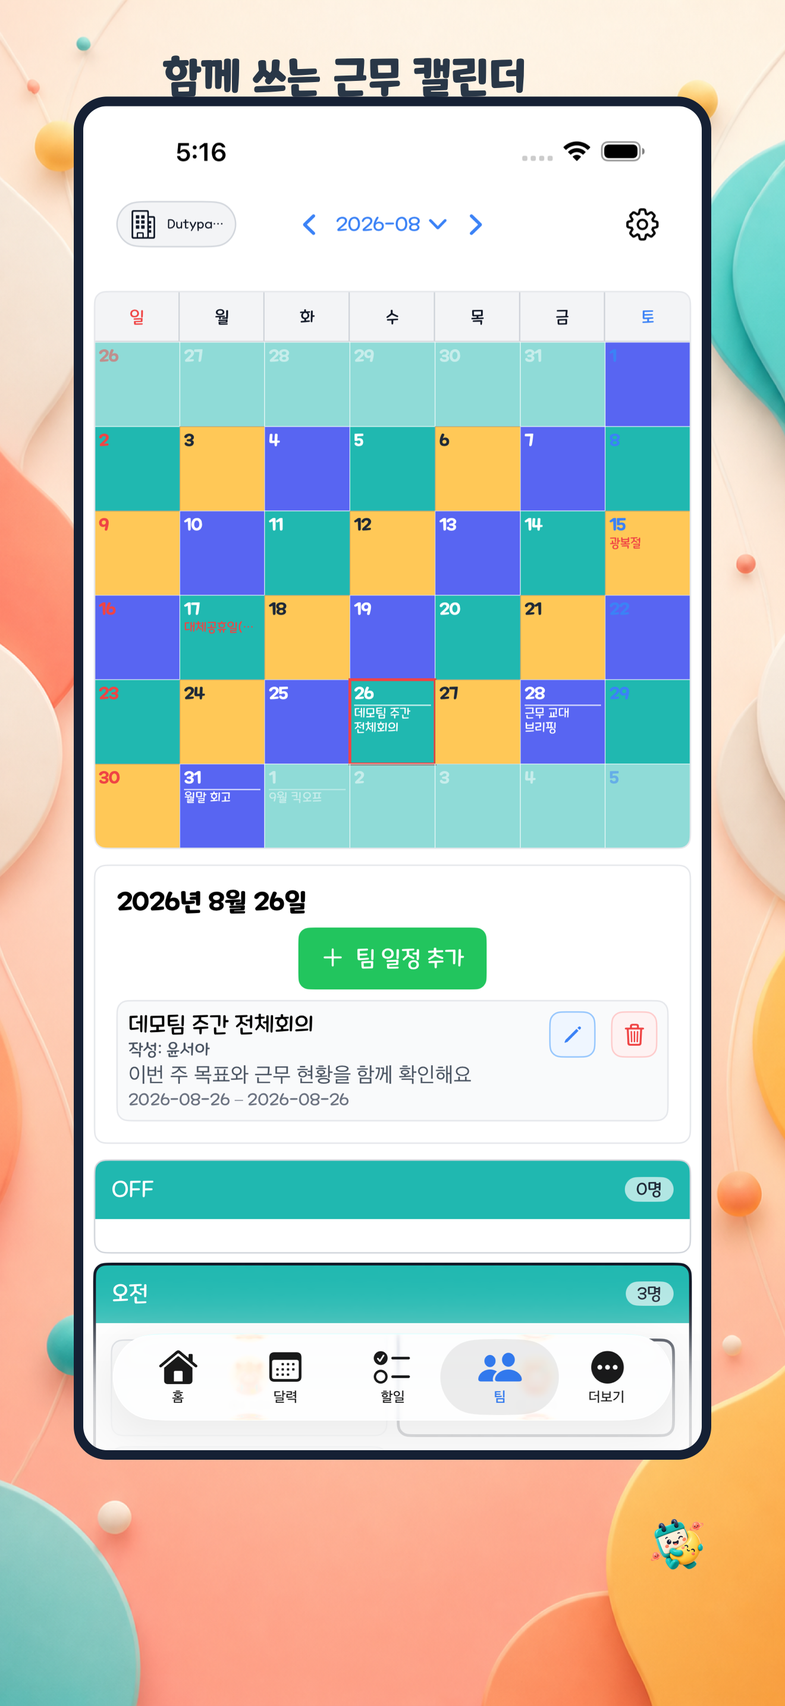
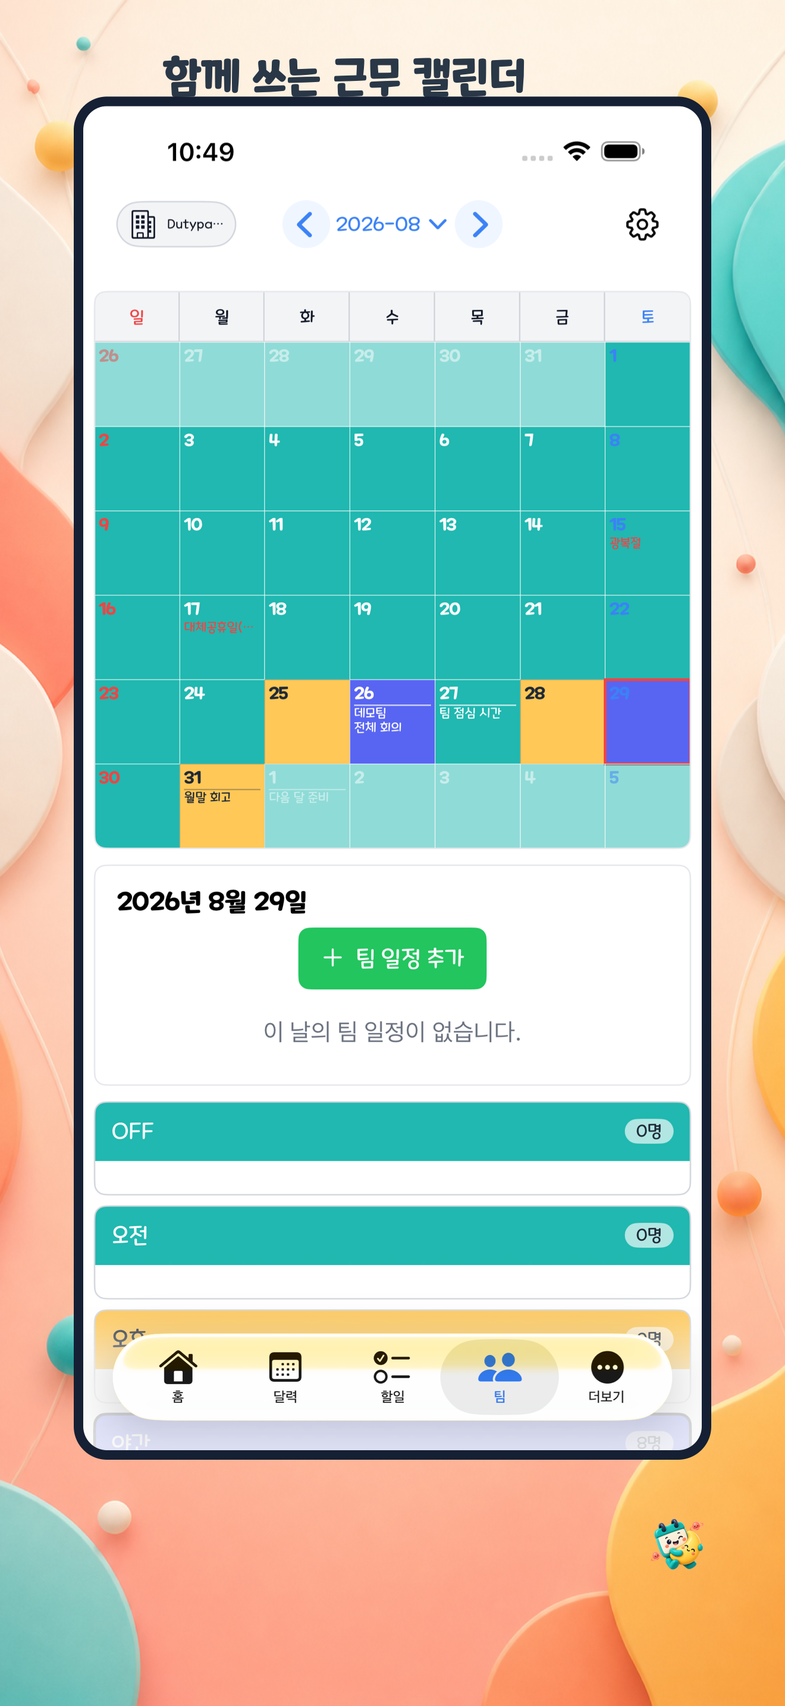
fix: refresh App Store screenshot set
Capture deterministic Korean and English demo flows on the current UI, keep English calendar surfaces holiday-free, and record reproducible review evidence.

diff --git a/ios/DutyparkUITests/DemoAppStoreCaptureUITests.swift b/ios/DutyparkUITests/DemoAppStoreCaptureUITests.swift
@@ -67,6 +67,9 @@ final class DemoAppStoreCaptureUITests: XCTestCase {
 
         openPrimaryTab("tab.team", screen: "screen.team", in: app)
         waitForSettledContent(in: app, loadingIdentifier: nil)
+        if language == "en" {
+            selectEnglishTeamCaptureMonth(in: app)
+        }
         capture("appstore-\(language)-04-team-demo")
 
         openPrimaryTab("tab.more", screen: "screen.more", in: app)
@@ -200,6 +203,37 @@ final class DemoAppStoreCaptureUITests: XCTestCase {
             "English capture must show November 2026 after moving three months"
         )
         XCTAssertEqual(monthDisplay.value as? String, "2026-11")
+    }
+
+    @MainActor
+    private func selectEnglishTeamCaptureMonth(in app: XCUIApplication) {
+        let monthDisplay = app.buttons["team.calendar.month.display"]
+        XCTAssertTrue(monthDisplay.waitForExistence(timeout: 10), "Team month control did not load")
+        XCTAssertEqual(
+            monthDisplay.value as? String,
+            "2026-08",
+            "The English team capture starts in August 2026 before its move to November"
+        )
+
+        monthDisplay.tap()
+        let monthPicker = app.descendants(matching: .any)["team.calendar.monthPicker"]
+        XCTAssertTrue(monthPicker.waitForExistence(timeout: 5), "Team month picker did not load")
+
+        let november = app.buttons["team.calendar.monthPicker.month.11"]
+        XCTAssertTrue(november.waitForExistence(timeout: 5), "Team November month button did not load")
+        november.tap()
+        XCTAssertTrue(monthPicker.waitForNonExistence(timeout: 5), "Team month picker did not dismiss")
+
+        let monthChanged = XCTNSPredicateExpectation(
+            predicate: NSPredicate(format: "value == %@", "2026-11"),
+            object: monthDisplay
+        )
+        XCTAssertEqual(
+            XCTWaiter.wait(for: [monthChanged], timeout: 10),
+            .completed,
+            "English team capture must show November 2026"
+        )
+        waitForSettledContent(in: app, loadingIdentifier: nil)
     }
 
     @MainActor

diff --git a/ios/Dutypark/Features/Team/TeamView.swift b/ios/Dutypark/Features/Team/TeamView.swift
@@ -92,6 +92,7 @@ struct TeamView: View {
                 nextYearLabel: Text("team.view.calendar.nextYear", tableName: "Team"),
                 currentMonthTitle: Text("team.view.calendar.thisMonth", tableName: "Team"),
                 cancelTitle: teamLocalized("team.common.cancel"),
+                identifierPrefix: "team.calendar.monthPicker",
                 onSelect: { year, month in
                     monthPickerPresented = false
                     Task { await viewModel.goTo(year: year, month: month) }
@@ -281,6 +282,10 @@ struct TeamView: View {
                 .frame(minHeight: DPSize.minimumTouchTarget)
             }
             .accessibilityLabel(Text("team.view.calendar.chooseMonth", tableName: "Team"))
+            .accessibilityValue(
+                Text(verbatim: "\(viewModel.year)-\(String(format: "%02d", viewModel.month))")
+            )
+            .accessibilityIdentifier("team.calendar.month.display")
             .disabled(viewModel.isLoading)
 
             DPMonthArrowButton(direction: .next, label: teamLocalized("team.view.calendar.nextMonth"), identifier: "team.calendar.month.next") {

diff --git a/ios/APP_STORE_REVIEW_AUDIT_2026-08-29.md b/ios/APP_STORE_REVIEW_AUDIT_2026-08-29.md
@@ -2,7 +2,7 @@
 
 - 기준일: 2026-08-29 (KST)
 - 판정: **HOLD — 제출하지 않음**
-- 코드 기준: committed HEAD `3d55d46d` 위의 현재 미커밋 작업 트리. 탈퇴 시 문의·신고 보존 예외 고지와 정책 링크를 포함한 이 작업 트리를 2026-08-29 21:02 KST까지 재검증했다. 최종 제출 전에는 커밋 SHA가 고정된 동일 소스를 다시 검증해야 한다.
+- 코드 기준: committed HEAD `1856c2aa` 위의 현재 미커밋 스크린샷 작업 트리. 계정 삭제 보존 예외 고지는 이 HEAD에 포함됐고, 팀 월 선택 접근성 계약·캡처 harness·로컬 전용 demo seed·ko/en 이미지와 문서는 2026-08-29 22:57 KST까지 재검증했다. 최종 제출 전에는 커밋 SHA가 고정된 동일 소스를 다시 검증해야 한다.
 - 목적: [2026-08-28 보고서](./APP_STORE_REVIEW_AUDIT_2026-08-28.md)의 반복이 아닌, 그 이후 변경분과 제출 직전의 미검증 게이트를 기록한다.
 - 비밀값: 비밀번호, private key, client secret, webhook token, 실제 S2S URL은 이 문서에 기록하지 않는다. 심사용 계정은 App Store Connect의 `App Review Information → Sign-in required → Username / Password` 필드에서만 제공한다.
 
@@ -16,7 +16,7 @@
 | UGC 텍스트 필터 | 클라이언트·일부 서버 보강 반영됨 | backend/iOS 관련 focused·full 검증 PASS. 웹 정규화·private D-Day 예외는 반영됐고 cold-start/fetch fail-open, 모든 공개/공유 쓰기 경로·첨부·신고 흐름은 별도 게이트 |
 | 문의·신고 탈퇴 후 보존 | 사업자 결정 HOLD | exact retention/purge 기간, snapshot·식별자 최소화, legal hold 범위·종료 조건 및 사용자 고지·Privacy declarations 일치 확정 |
 | 비동기 계정 삭제 완료 확인 | backend·web·iOS 구현 및 자동 테스트 PASS | 보통 5분 이내 ETA, 로그아웃 후 receipt 기반 상태 조회, 실제 `COMPLETED` confirmation, `FAILED` 지원 경로를 구현. disposable 운영 유사 계정 E2E는 별도 게이트 |
-| App Store 스크린샷 | 현 앱과 불일치 가능 | 최종 빌드에서 한국어·영어 세트 재촬영·재합성 |
+| App Store 스크린샷 | 최신 ko/en 세트 재촬영·재합성·시각 검토 PASS | 제출할 build와 이미지 source가 같음을 최종 업로드 전에 한 번 더 확인 |
 | 배포 IPA | 배포 서명·최종 entitlement 미확정 | Release Archive/export, 서명, 운영 API, APNs production 확인 |
 | 실제 iPhone E2E | 미실행 또는 일부 미검증 | APNs, OAuth, 카메라, 파일 picker, 파괴적 흐름 완료 |
 | App Store Connect | 제출 전 입력 대기 | privacy labels, Review Notes, demo account, backend 준비 |
@@ -42,14 +42,14 @@ Apple routine review의 경계도 구분한다. Apple이 내부 DB를 직접 조
 | backend full Gradle | 1,845 total; 1,824 PASS / 21 SKIP / 0 FAIL | skip 사유는 개별 Gradle 결과에서 확인 |
 | Slack privacy focused | 54 PASS | 일정 파싱 33 + 문의·신고·generic argument dump·예외 payload 21 최소화 검증 |
 | web full | 97 files / 727 tests PASS | type-check PASS, build PASS(2,218 modules transformed) |
-| App Store screenshot compose/extract scripts | PASS | 파일·크기·alpha·manifest 검증은 PASS. 실제 최신 앱 재촬영은 아래 UI 불일치로 미완료 |
+| App Store screenshot capture/compose/extract | PASS | iPhone 17 Pro Max, iOS 26.5에서 실제 local demo 계정 ko/en 2/2 PASS. 14개 raw와 12개 final을 1320x2868 opaque PNG로 갱신하고 전수 시각 검토 완료 |
 | Evidence manifest | 작성됨 | [2026-08-29 evidence manifest](./review-evidence/2026-08-29/README.md)에 fresh backend/web/iOS unit 재실행의 명령·tested SHA·결과와 기존 UI xcresult/capture provenance를 기록. 전체 bundle/log의 장기 artifact 저장은 HOLD |
 
 ## 3. 이번 점검의 범위와 근거
 
 ### 점검 범위
 
-- 시뮬레이터 기준: `iPhone 13 mini`, iOS 26.5 — committed HEAD `3d55d46d` 위 현재 미커밋 작업 트리의 8/29 자동 검증 결과는 2절에 기록하고, 외부·실기기·배포 검증은 별도로 남긴다.
+- 시뮬레이터 기준: unit/build는 `iPhone 13 mini`, App Store 캡처는 `iPhone 17 Pro Max`, 모두 iOS 26.5 — committed HEAD `1856c2aa` 위 현재 미커밋 작업 트리의 8/29 자동 검증 결과는 2절에 기록하고, 외부·실기기·배포 검증은 별도로 남긴다.
 - iOS 코드: `ios/Dutypark/` 및 `ios/DutyparkTests/`
 - 백엔드 개인정보·인증·UGC 코드: `src/main/kotlin/`, `src/main/resources/db/migration/v2/`, `src/test/kotlin/`
 - App Store 산출물: `docs/app-store/raw/{ko,en}/`, `docs/app-store/final/{ko,en}/`, `docs/app-store/manifests/{ko,en}.json`
@@ -157,19 +157,20 @@ exact retention/purge 일정, 문의·신고 snapshot과 식별자의 최소화,
 
 Dutypark의 내부 게이트는 이 최소 요건보다 보수적이다. 위 흐름의 backend·web·iOS 자동 테스트는 PASS했지만, disposable 계정으로 비동기 완료까지 확인한 뒤 세션·token·OAuth 연결·UGC·첨부 및 보존 예외가 정책과 일치하는지는 아직 실제 서버에서 검증하지 않았다. 상태 API에 앱 자체 rate limiter는 없으므로, 256-bit status-only token 외에도 운영 edge/IP rate limit이 적용되는지 배포 환경에서 확인한다. 이 내부 E2E와 사업자 보존 결정이 끝나지 않았으므로 제출 판정은 계속 HOLD다.
 
-## 6. 현 앱과 달라진 App Store 스크린샷
+## 6. 최신 App Store 스크린샷 재촬영 결과
 
-기존 산출물은 `docs/app-store/README.md`의 2026-08-26 capture provenance를 사용한다. 코드 HEAD `c813778d`에 포함된 캘린더 화살표 수정으로 실제 UI가 바뀌었다. 기존 8/26 raw 캡처는 맨 chevron을 사용하지만 현재 앱은 원형 배경과 넓어진 탭 영역을 사용하므로, 기존 캡처를 최신 앱 화면으로 사용할 수 없다. Slack 개인정보와 UGC 필터 변경이 스크린샷에 보인다고 추정하지 않으며, 화면 불일치가 확인된 캘린더를 포함해 **전체 제출 세트를 재촬영**한다.
+2026-08-26 산출물은 캘린더 화살표 UI가 현재 앱과 달라 폐기하고, 2026-08-29에 격리된 `dutypark_demo` DB·loopback 8081 API와 실제 local demo 계정을 사용해 전체 세트를 다시 촬영했다. `DemoAppStoreCaptureUITests`는 iPhone 17 Pro Max, iOS 26.5에서 ko/en 2/2 PASS했고 결과 번들은 `/private/tmp/dutypark-appstore-capture-final3-20260829.xcresult`다. 명령·device·tested source·tree hash는 [evidence manifest](./review-evidence/2026-08-29/README.md)에 기록한다.
 
-필수 작업:
+완료한 작업:
 
-- `ios/DutyparkUITests/DemoAppStoreCaptureUITests.swift`로 한국어·영어 실제 계정 화면을 최종 Release 빌드에서 재촬영한다.
-- `docs/app-store/raw/ko/{home,calendar,todo,team,more,social,dday}.png`와 `raw/en/...`를 새 캡처로 교체한다.
-- `scripts/compose-app-store-screenshots.sh docs/app-store/manifests/ko.json` 및 `en.json`으로 final 이미지를 재생성한다.
-- `docs/app-store/final/ko/01-06*.png`, `final/en/01-06*.png`가 현재 기능·문구·상태를 보여주고, 로그인 화면·오류·테스트 계정 개인정보가 노출되지 않는지 확인한다.
-- 1320x2868 PNG, opaque canvas, 안전영역·문구·실제 앱 UI 보존 조건은 `docs/app-store/README.md`와 스크립트 검증을 따른다.
+- ko/en 각 7개 XCTAttachment를 추출해 `docs/app-store/raw/{ko,en}/`의 14개 원본을 교체했다.
+- locale별 manifest로 제출용 6개씩, 총 12개 `docs/app-store/final/{ko,en}/` 이미지를 재합성했다.
+- compose/extract 검증 스크립트가 크기·alpha·manifest·중복/누락·overwrite guard를 모두 PASS했다.
+- 14개 raw와 12개 final을 전수 시각 검토해 현재 원형 캘린더 화살표, 현행 문구·기능 상태, 실제 demo avatar를 확인했다. 로그인/오류 화면, 비밀값, 실제 개인 데이터는 보이지 않는다.
+- 영문 Calendar·Team·D-Day는 2026-11로 이동해 한국 공휴일 라벨이 노출되지 않는다. 팀 월 컨트롤은 UI 테스트가 `2026-08`에서 `2026-11` 전환을 접근성 value로 직접 검증한다.
+- 모든 raw/final은 1320x2868 opaque PNG이며 app UI는 crop·비균등 확대·재생성하지 않았다.
 
-compose/extract 스크립트 자체는 PASS했지만, 이는 기존 입력의 크기·alpha·manifest 검증 결과일 뿐 최신 UI라는 뜻은 아니다. 8/26 raw를 현재 앱 화면으로 교체하는 재촬영과 최종 시각 검토 결과는 **`최종 검증 후 기입`**이다.
+이 항목 자체는 **PASS**다. 다만 캡처는 Debug simulator/local demo 산출물이며 distribution signing, production entitlement 또는 최종 exported IPA를 증명하지 않는다. 제출 직전에는 업로드할 앱 build가 같은 UI revision인지 확인한다.
 
 ## 7. 최종 exported IPA, 배포 서명, 운영 APNs
 
@@ -321,7 +322,7 @@ Apple 정의상 단순 UGC capability는 대한민국 ‘전체’ 표에도 포
 - [ ] UGC 모든 서버 mutation 경로 및 첨부·신고·차단 E2E 확인
 - [ ] 문의·신고·계정삭제 감사 레코드의 보존기간, snapshot/식별자 최소화, 실패 시 provider credential 파기 기한, 익명화, 법적 예외, 관리자 접근과 탈퇴 UI 고지 결정
 - [x] 비동기 계정 삭제의 보통 5분 이내 ETA, 로그아웃 후 receipt 상태 조회, worker 완료 confirmation, 최종 실패·지원 경로를 backend·web·iOS에 구현하고 자동 테스트 통과
-- [ ] 현재 앱을 기준으로 ko/en App Store 스크린샷 재촬영·재합성·시각 검토
+- [x] 현재 앱을 기준으로 ko/en App Store 스크린샷 재촬영·재합성·시각 검토
 - [ ] distribution-signed exported IPA와 production APNs entitlement 확인
 - [ ] 최종 distribution Archive가 App Store 제출 요건인 iOS 26 SDK 이상으로 빌드됐는지 확인
 - [ ] 실제 iPhone APNs/OAuth/카메라/PhotosPicker/Files picker 확인

diff --git a/docs/demo/README.md b/docs/demo/README.md
@@ -68,7 +68,7 @@ The English fixture uses the same local-only password, `demo1234!`, and the
 same eight generated avatar files. Its schedules, Todo cards, duties, D-Day,
 friend relationships, tags, and notifications are generated through the local
 application flow with English titles, descriptions, and notification content.
-The source for the English capture set is the real local app on `2026-08-26`,
+The source for the English capture set is the real local app on `2026-08-29`,
 stored under `docs/app-store/raw/en/`; it is not translated or fabricated by
 the image-generation step.
 
@@ -77,29 +77,41 @@ The complete content workflow is checked in as
 It first runs the Korean account seed, creates the English marker team and
 accounts, uploads these avatars, then creates all API-backed content. It also
 inserts only the marker members' capture-date duty rows in a guarded
-transaction, because the application has no bulk duty-create endpoint. The
-English fixture additionally has November 2026 schedules so the English
-calendar capture can show a populated, holiday-free month.
+transaction, because the application has no bulk duty-create endpoint. After
+the API identity guard succeeds, it clears only the two marker teams' prior
+capture schedules, Todos, D-Days, duties, team schedules, friendships, tags,
+and notifications before recreating the deterministic fixture. This prevents
+older fixture revisions from accumulating in a refreshed screenshot set. The
+English fixture additionally has November 2026 schedules and duties so the
+English Calendar, Team, and D-Day captures can show a populated,
+holiday-free month.
 
-Run it only after the local migrations and backend are running:
+Run it only after the local migrations and a backend connected to
+`dutypark_demo` are running. To preserve a normal development backend on
+port `8080`, run the demo backend on `8081` and select that endpoint explicitly:
 
 ```sh
 scripts/seed-local-demo-content.sh --dry-run
-DUTYPARK_DEMO_CONFIRM=1 scripts/seed-local-demo-content.sh
+DUTYPARK_DEMO_API_BASE_URL=http://127.0.0.1:8081 \
+  scripts/seed-local-demo-content.sh --dry-run
+DUTYPARK_DEMO_CONFIRM=1 \
+  DUTYPARK_DEMO_API_BASE_URL=http://127.0.0.1:8081 \
+  scripts/seed-local-demo-content.sh
 ```
 
 The script requires `curl`, `jq`, `nc`, and either a host `mysql` client or the
 local Docker container. It refuses every target except
-`127.0.0.1:3307/dutypark_demo` and `http://127.0.0.1:8080`, checks all avatar
+`127.0.0.1:3307/dutypark_demo` and loopback API ports `8080` or `8081`, checks all avatar
 files before writing, and authenticates both local owner accounts to verify
 that the backend's `/api/members/me` response has the exact local member ID,
 email, name, and marker team ID/name. If the backend is accidentally pointed
 at a shared or production database, the script stops before its first API
 mutation. It never deletes or updates data outside the two marker teams.
-API-created schedules and Todos use the server's deterministic
-duplicate contract; D-Days, team schedules, friendships, pins, tags, and duty
-rows are checked by marker key before creation. Re-running the command is
-therefore safe and leaves the same content counts and IDs. The final JSON
+The reset is allowed only after both local owner identities match the exact
+database member and marker-team IDs. Avatars are uploaded on every run so an
+isolated backend storage root cannot reuse stale database metadata without the
+matching files. Re-running the command is therefore safe and leaves the same
+content counts. The final JSON
 summary reports the isolated database, both team IDs, account counts, and
 content counts. The password and every fixture are local-only; do not run the
 command with production credentials or a shared database.
@@ -132,8 +144,9 @@ The iOS capture test uses the local-only launch guard and the real demo login:
 ```
 
 It must run against a localhost API endpoint. The guard intentionally refuses a
-remote or production endpoint. Capture Korean and English independently on an
-iPhone 17 Pro Max simulator at `1320x2868`; record `2026-08-26`, the locale,
+remote or production endpoint. When the isolated demo backend runs on `8081`,
+pass `API_BASE_URL=http://localhost:8081/api/` to `xcodebuild`. Capture Korean and English independently on an
+iPhone 17 Pro Max simulator at `1320x2868`; record the capture date, the locale,
 build, device, and endpoint in the capture manifest. Keep raw captures in
 `docs/app-store/raw/ko/` and `docs/app-store/raw/en/`. The README gallery uses
 the crop-free 660x1434 Korean reductions in `docs/screenshots/readme/`.

diff --git a/ios/review-evidence/2026-08-29/README.md b/ios/review-evidence/2026-08-29/README.md
@@ -6,13 +6,17 @@ private keys, account data, or test-user secrets.
 
 ## Source state
 
-- Repository HEAD during the final rerun: `3d55d46de011f8a18b8b38434836b8fe8acb3a31`.
-- The verified source is the current uncommitted working tree on that HEAD, including
-  the account-deletion retention disclosure, privacy-policy links, localization, and tests.
-- This is a development verification record, not a clean-commit attestation. Before
-  submission, repeat the same checks from a fixed commit and retain the raw artifacts.
+- Repository HEAD during the backend/web/iOS unit rerun was
+  `3d55d46de011f8a18b8b38434836b8fe8acb3a31`, with the then-uncommitted
+  account-deletion retention disclosure that was later committed as `1856c2aa`.
+- Repository HEAD during the App Store screenshot refresh was
+  `1856c2aaccfe086d6828366a0a7291363a43a1d7`, with the screenshot harness,
+  Team month accessibility metadata, local demo seed, images, and evidence documents
+  still uncommitted.
+- These are development verification records, not clean-commit attestations. Before
+  submission, repeat the relevant checks from a fixed commit and retain the raw artifacts.
 
-## Fresh rerun bound to the source state above
+## Backend, web, and iOS unit rerun
 
 | Scope | Command | Result | Durable evidence |
 |---|---|---|---|
@@ -79,6 +83,54 @@ The baseline failures were:
 Each account-deletion focused bundle has three destination/configuration rows marked
 `Success` and one `TestCaseRuns` row marked `Success`. The notification focused bundle
 has the same three `Success` destination/configuration rows and one successful run row.
+
+## App Store screenshot refresh
+
+The stale 2026-08-26 screenshots were replaced from a real local demo-account run
+against an isolated loopback backend using `dutypark_demo`. The user's existing 8080
+backend and 5173 web server were not restarted or modified.
+
+```sh
+xcodebuild -project ios/Dutypark.xcodeproj \
+  -scheme Dutypark \
+  -destination 'platform=iOS Simulator,name=iPhone 17 Pro Max' \
+  -derivedDataPath /private/tmp/dutypark-appstore-capture-8081-derived \
+  CODE_SIGNING_ALLOWED=NO \
+  API_BASE_URL=http://localhost:8081/api/ \
+  -resultBundlePath /private/tmp/dutypark-appstore-capture-final3-20260829.xcresult \
+  -only-testing:DutyparkUITests/DemoAppStoreCaptureUITests test
+```
+
+- Result: PASS, 2 total / 2 PASS / 0 FAIL / 0 SKIP.
+- Device: iPhone 17 Pro Max, iOS Simulator 26.5 (23F77), arm64,
+  `2AFDB0DF-841A-433F-B923-9241B21E58CB`.
+- Result bundle: `/private/tmp/dutypark-appstore-capture-final3-20260829.xcresult`,
+  65 MB, finalized `2026-08-29T22:50:29+0900`.
+- Deterministic tree SHA-256:
[1 lines of base64/hex data omitted]
+- Output: 14 opaque 1320x2868 raw PNGs and 12 opaque 1320x2868 composed PNGs.
+- Pipeline tests: `scripts/test-extract-app-store-captures.sh` PASS and
+  `scripts/test-compose-app-store-screenshots.sh` PASS.
+- Visual review: all 14 raw and 12 final images PASS. The English Calendar, Team,
+  and D-Day use November 2026 and contain no Korean public-holiday labels. No login or
+  error screen, credential, secret, or real personal data is visible.
+
+The checked-in raw and final PNG files are durable evidence of the visible result. The
+`.xcresult` path remains temporary and must be uploaded to retained artifact storage if
+the test-run provenance itself is needed after local cleanup.
+
+Because the screenshot fix adds Team month accessibility metadata to app code, the full
+`DutyparkTests` suite was rerun afterward on the exact `iPhone 13 mini`:
+
+- Result: PASS; 1,126 identifiers, 1,125 aggregate PASS, 1 SKIP, 0 FAIL;
+  device-expanded 1,150 PASS and 1 SKIP.
+- Bundle: `/private/tmp/dutypark-appstore-final-unit-20260829.xcresult`, 11 MB,
+  finalized `2026-08-29T22:56:47+0900`.
+- Deterministic tree SHA-256:
[1 lines of base64/hex data omitted]
+- The verified Debug app was installed on exact simulator
+  `F0737016-7654-4967-83FA-1DFB951DB36E`; `simctl get_app_container` confirmed the
+  installed `io.github.shanepark.dutypark` bundle.
 
 ## Release simulator capture
 

diff --git a/docs/app-store/README.md b/docs/app-store/README.md
@@ -25,19 +25,23 @@ Todo, Team, Social, and D-Day. The checked-in manifests are
 `more.png` is retained as a raw capture for future selection but is not part of
 the six-screen App Store set. Both localized final sets are current: the
 English raw captures use the Emma Moon demo account and English sample data.
-Its Calendar and D-Day screens select the holiday-free November 2026 fixture
-so the English submission set contains no Korean public-holiday labels.
+Its Calendar, Team, and D-Day screens select the holiday-free November 2026
+fixture so the English submission set contains no Korean public-holiday labels.
 
 Capture metadata for this refresh:
 
 ```text
-Capture date: 2026-08-26 (Asia/Seoul)
+Capture date: 2026-08-29 (Asia/Seoul)
 Device: iPhone 17 Pro Max
 OS: iOS 26.5
 App: 1.0.0 (1)
 Canvas: 1320x2868 portrait
 Account: local dutypark_demo
+Source commit: 1856c2aa
+Capture API: http://localhost:8081/api/
 Source: actual app capture, not generated UI
+Capture test: 2 PASS / 0 FAIL / 0 SKIP
+Result bundle: /private/tmp/dutypark-appstore-capture-final3-20260829.xcresult
 ```
 
 The same per-locale provenance is recorded in each checked-in manifest's
@@ -68,16 +72,25 @@ whose base name is `appstore-{locale}-01-home-demo` through
 `appstore-{locale}-07-dday-demo`. Xcode's export manifest appends a repetition
 and UUID suffix such as `_0_<UUID>.png`; the extractor normalizes that suffix
 back to the base name while still rejecting duplicate base names. After an
-explicitly requested UI-test run, extract the attachments with the repository
+explicitly requested UI-test run, point the Debug simulator build at the
+isolated demo backend and then extract the attachments with the repository
 script:
 
 ```sh
+xcodebuild -project ios/Dutypark.xcodeproj \
+  -scheme Dutypark \
+  -destination 'platform=iOS Simulator,name=iPhone 17 Pro Max' \
+  -derivedDataPath /tmp/dutypark-appstore-capture-derived \
+  -resultBundlePath /tmp/dutypark-appstore-capture.xcresult \
+  CODE_SIGNING_ALLOWED=NO \
+  API_BASE_URL='http://localhost:8081/api/' \
+  -only-testing:DutyparkUITests/DemoAppStoreCaptureUITests test
 scripts/extract-app-store-captures.sh \
-  --result /tmp/Dutypark-demo.xcresult \
+  --result /tmp/dutypark-appstore-capture.xcresult \
   --locale ko \
   --force
 scripts/extract-app-store-captures.sh \
-  --result /tmp/Dutypark-demo.xcresult \
+  --result /tmp/dutypark-appstore-capture.xcresult \
   --locale en \
   --force
 ```
